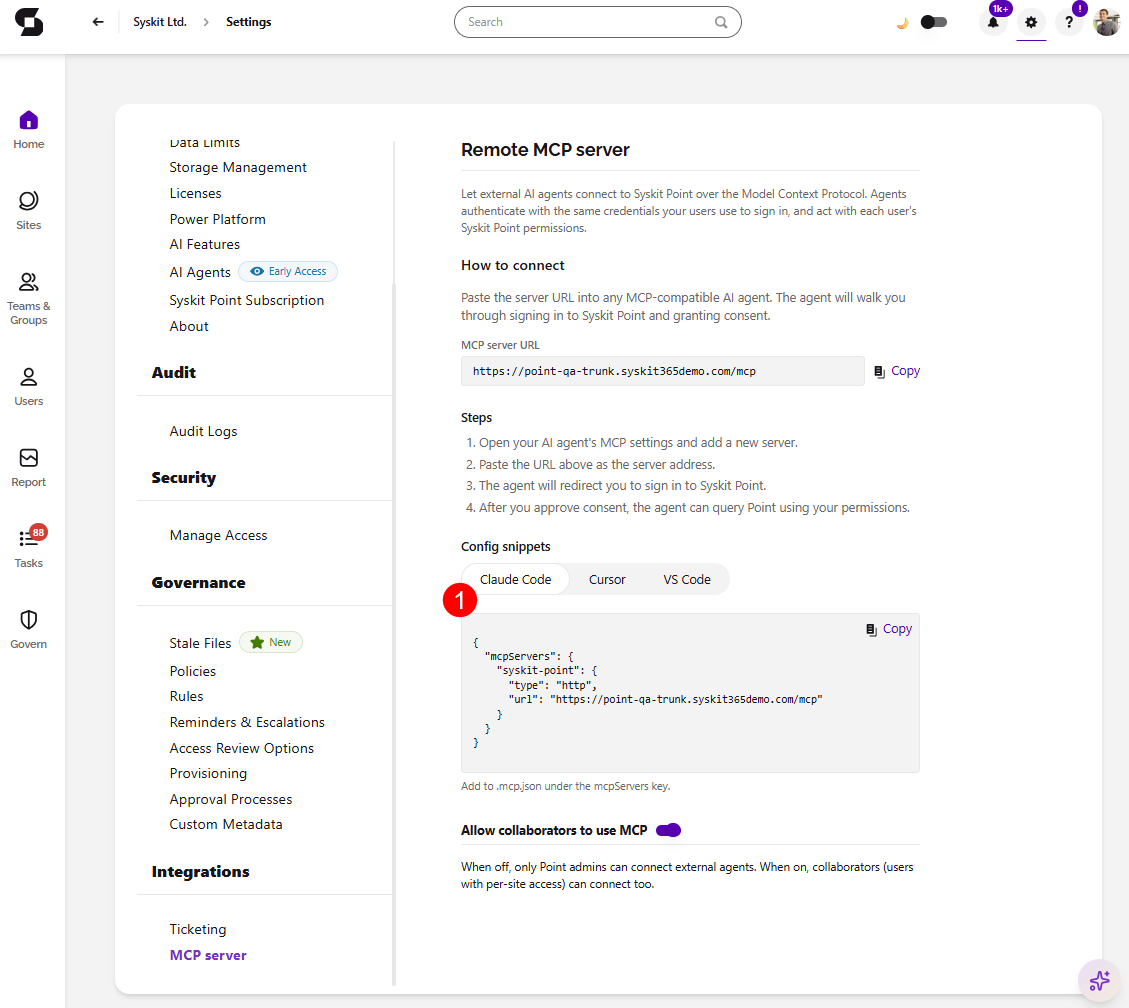
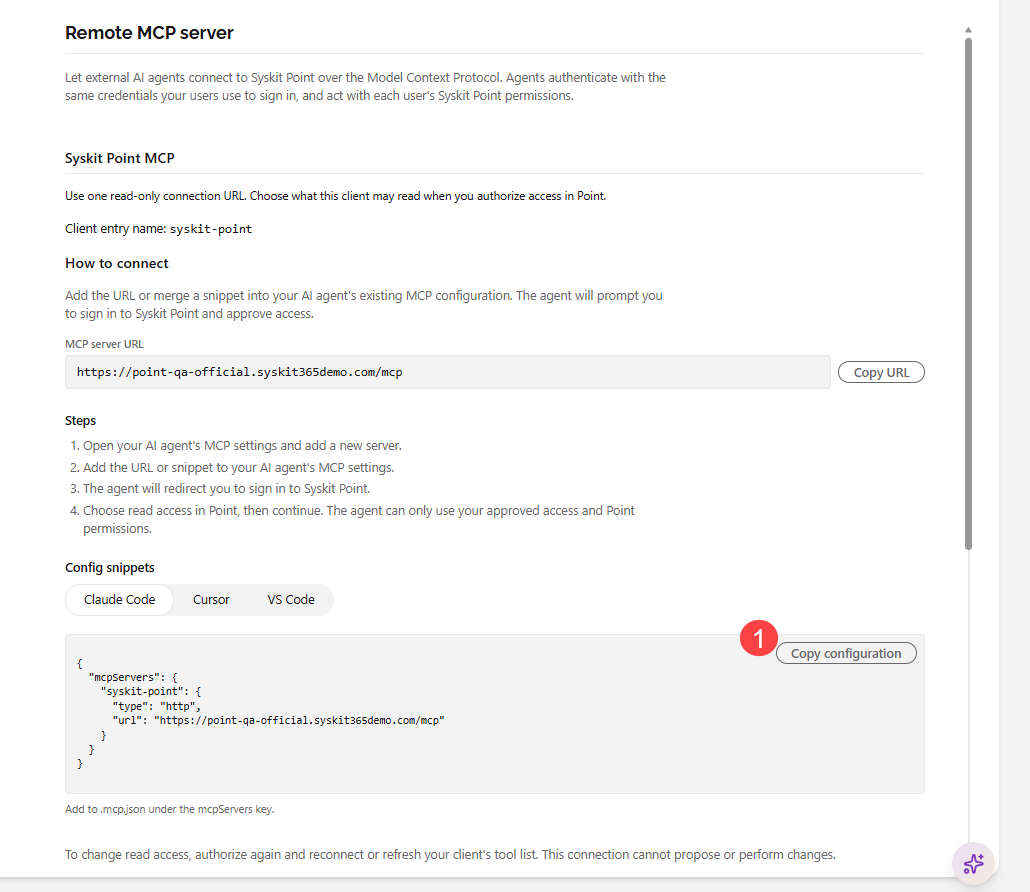
MCP integrations update

diff --git a/docs/ai-in-syskit-point/features/mcp-server.md b/docs/ai-in-syskit-point/features/mcp-server.md
@@ -19,53 +19,103 @@ description: The Syskit Point MCP Server lets you query your Microsoft 365 gover
 
 * AI features are [enabled](../enable-ai-features.md) in Syskit Point.
 * Setting up the MCP Server requires the **Syskit Point Admin** role.
-* An MCP-compatible AI tool.
+* An MCP-compatible AI tool that supports **remote HTTP MCP servers with OAuth**.
 
 ## Capabilities 
 
-With the Syskit Point MCP Server you can:
+The Syskit Point MCP Server offers the following capabilities:
 
-* **Explore users, groups, teams, and sites** - ownership, membership, and access investigations ("Which of our sites are externally shared and ownerless?").
-* **Run and interpret Syskit Point reports** - external sharing, ownerless groups, excessive storage, "which resources can this user access."
-* **Query audit history** - user and admin activity, file and sharing events, membership changes, within a date range.
-* **Analyze storage** - quotas, growth trends, and version-cleanup opportunities across the tenant.
-* **Inventory Power Platform resources** - apps, flows, connections, and their ownership risks.
+* **Directory** - find users, groups, and workspaces.
+* **Access** - read access and permissions for Microsoft 365.
+* **Sharing** - read external sharing information for Microsoft 365.
+* **Reports** - discover reports and open them in Syskit Point, such as external sharing, ownerless groups, excessive storage, "which resources can this user access."
+  * The MCP Server helps you discover the right report and provides a link to open it in Syskit Point. 
+  * Running arbitrary reports and exporting report data are not supported.
+* **Audit** - read Microsoft 365 audit activity: user and admin activity, file and sharing events, membership changes, within a date range.
+* **Governance** - read governance details about Microsoft 365.
+* **Storage** - read site storage use, growth, and quotas, including version-cleanup opportunities across the tenant.
+* **Power Platform** - read Power Platform environments, apps, flows, connections, and their ownership risks.
+* **Licensing** - read Microsoft 365 license use and assignments.
 
 The **MCP Server is read-and-report** only: it **delivers findings and report results**, and does not expose administrative write actions in your tenant. 
   * Queries return only data the connecting identity is allowed to view under Point's permission model, within Point's sync scope and your audit retention period.
 
 ## Set up the MCP Server
 
-* In Syskit Point, go to **Settings** > **Integrations** > **MCP Server (1)** 
-* As instructed on screen, paste the **provided server URL (2)** into any MCP-compatible AI agent. 
-  * The agent will walk you through signing in to Syskit Point and granting consent.
-  * **Follow the Steps (3)** listed on screen if you are unsure. 
+* In Syskit Point, go to **Settings** > **Point AI** > **MCP Integrations (1)**.
+* As instructed on screen, paste the provided server URL (2) into any MCP-compatible AI agent.
+  * The agent will walk you through signing in to Syskit Point.
+  * The agent can only use your approved access and Point permissions.
+  * Follow the Steps (3) listed on screen if you are unsure.
+* **Select the capabilities (4)** you want to make available to connected AI tools and **turn the toggle on (5)** next to the capability you want to include.
+  * **Directory**, **Access**, **Sharing**, **Reports**, and **Audit** are turned on by default.
+  * **Governance**, **Storage**, **Power Platform**, and **Licensing** are turned off by default.
+* Optionally, you can also turn on the ***Allow collaborators to use MCP*** **toggle (6)** to let Syskit Point Collaborators connect their AI tools as well. 
+  * For more details, see the [Collaborator Access](#collaborator-access) section.
 
-![MCP Server](../../../static/img/mcp-server-connect.png)
+![MCP Server](../../../static/img/mcp-server-setup.png)
 
-:::warning
-
-**Please note:** Treat MCP credentials like admin credentials. Whoever holds one can query your governance data at the scope it allows.
-
-:::
+![MCP Server - Capabilities](../../../static/img/mcp-server-capabilities.png)
 
 ## Connect Your AI Tool
 
-To connect you AI tool, you'll need the endpoint URL and a credential from your Point admin. 
+To connect your AI tool, you only need the MCP server URL. No admin-issued credential is required. 
 
-* **Claude** - add a custom connector: **Settings** > **Connectors** > **Add custom connector**, paste the endpoint URL, and authenticate. You can test it after with a prompt: *"Using Syskit Point, list ownerless groups."*
-* **Microsoft Copilot Studio** - add a new tool of type **Model Context Protocol** pointing to the Syskit Point endpoint, configure authentication, and publish to the users or agents who need governance data.
-* **Custom agents** - any MCP-compatible framework can connect using the endpoint and credential; list the available tools on connection to discover the capability surface programmatically.
+* Open your AI tool's MCP settings and add a new server.
+* Paste the MCP server URL as the server address.
+* The AI tool redirects you to sign in to Syskit Point.
+* **Choose the capabilities** the AI tool can use and approve consent.
+  * Once you approve consent, the AI tool can query Syskit Point using your permissions.
 
-The **configuration snippets (1)** are located in **Settings** > **Integrations** > **MCP Server** for Claude Code, Cursor, and VS Code.  
+
+* **Claude** - add a custom connector: **Settings** > **Connectors** > **Add custom connector**, paste the MCP server URL, and sign in to Syskit Point. You can test it after with a prompt: *"Using Syskit Point, list ownerless groups."*
+* **Microsoft Copilot Studio** - add a new tool of type **Model Context Protocol** pointing to the Syskit Point MCP server URL, configure authentication, and publish to the users or agents who need governance data.
+* **Custom agents** - any MCP-compatible framework that supports remote HTTP MCP servers with OAuth can connect using the MCP server URL; list the available tools on connection to discover the capability surface programmatically.
+
+The **configuration snippets (1)** are located in **Settings** > **Point AI** > **MCP Integrations** for Claude Code, Cursor, and VS Code.  
 
 ![MCP Server - Configuration Snippets](../../../static/img/mcp-server-connect-config-snippets.png)
 
+## Consent
+
+Access to the MCP Server is approved on two levels:
+
+* **Admins choose the available capabilities.** 
+  * On the **MCP Integrations** page, a Syskit Point Admin selects which capabilities AI tools can use.
+* **Users approve access for their AI tool.** 
+  * When signing in from the AI tool, each user chooses which of the capabilities enabled by the admin the AI tool can use.
+
+:::info
+
+**Please note:** To change which capabilities your AI tool can use, authorize again and reconnect, or refresh your AI tool's tool list. 
+  * This also applies when an admin enables additional capabilities later.
+
+:::
+
+## Collaborator Access
+
+When the ***Allow collaborators to use MCP*** toggle is off, only Syskit Point Admins can connect AI tools. When it is on, Syskit Point Collaborators can connect their AI tools too.
+
+* Collaborator access to the MCP Server requires only the ***Turn on Point AI*** setting to be enabled.
+  * The ***Enable Point AI for collaborators*** checkbox does not control collaborator access to the MCP Server.
+* Collaborators can use only the capabilities marked **Admins and collaborators** in the **Who can use it** column: **Governance**, **Storage**, and **Power Platform**.
+  * The capability also needs to be turned on under **Tenant access**. These three capabilities are turned off by default.
+  * All other capabilities are available to Syskit Point Admins only.
+
+Collaborator access **does not grant tenant-wide visibility**. Collaborators work within the limits of their [Syskit Point Collaborators role](../../configuration/enable-role-based-access.md#syskit-point-collaborators):
+
+* Searches return only users the collaborator is allowed to see.
+* Restricted operations remain blocked.
+
 ## Manage Access
 
-* **Rotate credentials:** create a new credential, update the client tool, revoke the old one.
-* **Revoke a credential:** takes effect immediately; the tool's next request fails with an authentication error.
-* **Disable the server:** turns off all MCP access at once without deleting registered credentials.
+In Syskit Point, go to **Settings** > **Point AI** > **MCP Integrations** to:
+
+* **Change the available capabilities:** turn capabilities on or off under **Tenant access**.
+  * Users need to authorize again and reconnect, or refresh their AI tool's tool list, to use newly enabled capabilities.
+* **Turn collaborator access on or off:** use the ***Allow collaborators to use MCP*** toggle.
+
+To turn off all MCP Server access, [disable Point AI](../enable-ai-features.md#disable-point-ai). Connected AI tools lose access immediately.
 
 ## Early Access Status
 

diff --git a/docs/ai-in-syskit-point/ai-data-privacy-and-security.md b/docs/ai-in-syskit-point/ai-data-privacy-and-security.md
@@ -66,6 +66,7 @@ No. All AI features deliver findings and recommendations. Administrative changes
 **Can a user see data through AI features that their Point role doesn't allow?** 
 
 No. The Point Assistant and the MCP Server answer within the connecting identity's Point role. AI is not a path around role-based access.
+  * For example, when collaborators use the MCP Server, searches return only users they are allowed to see, and restricted operations remain blocked. See [Collaborator Access](features/mcp-server.md#collaborator-access).
 
 **Is our data used to train AI models?** 
 
@@ -75,10 +76,12 @@ Your prompts and their responses are never used to train the foundation models t
 **Can we enable some AI features and not others?** 
 
 No. AI features are enabled with a single opt-in: turning AI on makes all AI features available.
+  * For the MCP Server, Syskit Point admins choose which capabilities AI tools can use. See [Syskit Point MCP Server](features/mcp-server.md#consent).
 
 **Who in our organization can use AI features once enabled?** 
 
 Users with access to Syskit Point, within the limits of their assigned Point role. Syskit Point admins can choose to enable or disable AI for collaborators. Enabling AI does not grant anyone access to data they couldn't already reach through Point.
+  * Collaborator access to the MCP Server is controlled separately, with the ***Allow collaborators to use MCP*** toggle on the **MCP Integrations** page. See [Collaborator Access](features/mcp-server.md#collaborator-access).
 
 **Can we turn it off later?** 
 

diff --git a/docs/ai-in-syskit-point/enable-ai-features.md b/docs/ai-in-syskit-point/enable-ai-features.md
@@ -22,6 +22,7 @@ To enable AI features:
   * This is a single opt-in. 
   * Opting in makes all Point AI features available; there are no per-feature toggles.
 * Optionally, select the **Enable Point AI for collaborators checkbox (3)** below it to make Point AI available to collaborators.
+  * This checkbox does not control collaborator access to the [Syskit Point MCP Server](features/mcp-server.md#collaborator-access), which is set separately on the **MCP Integrations** page.
 * **Click Save (4)** to finalize your decision.
 
 :::info
